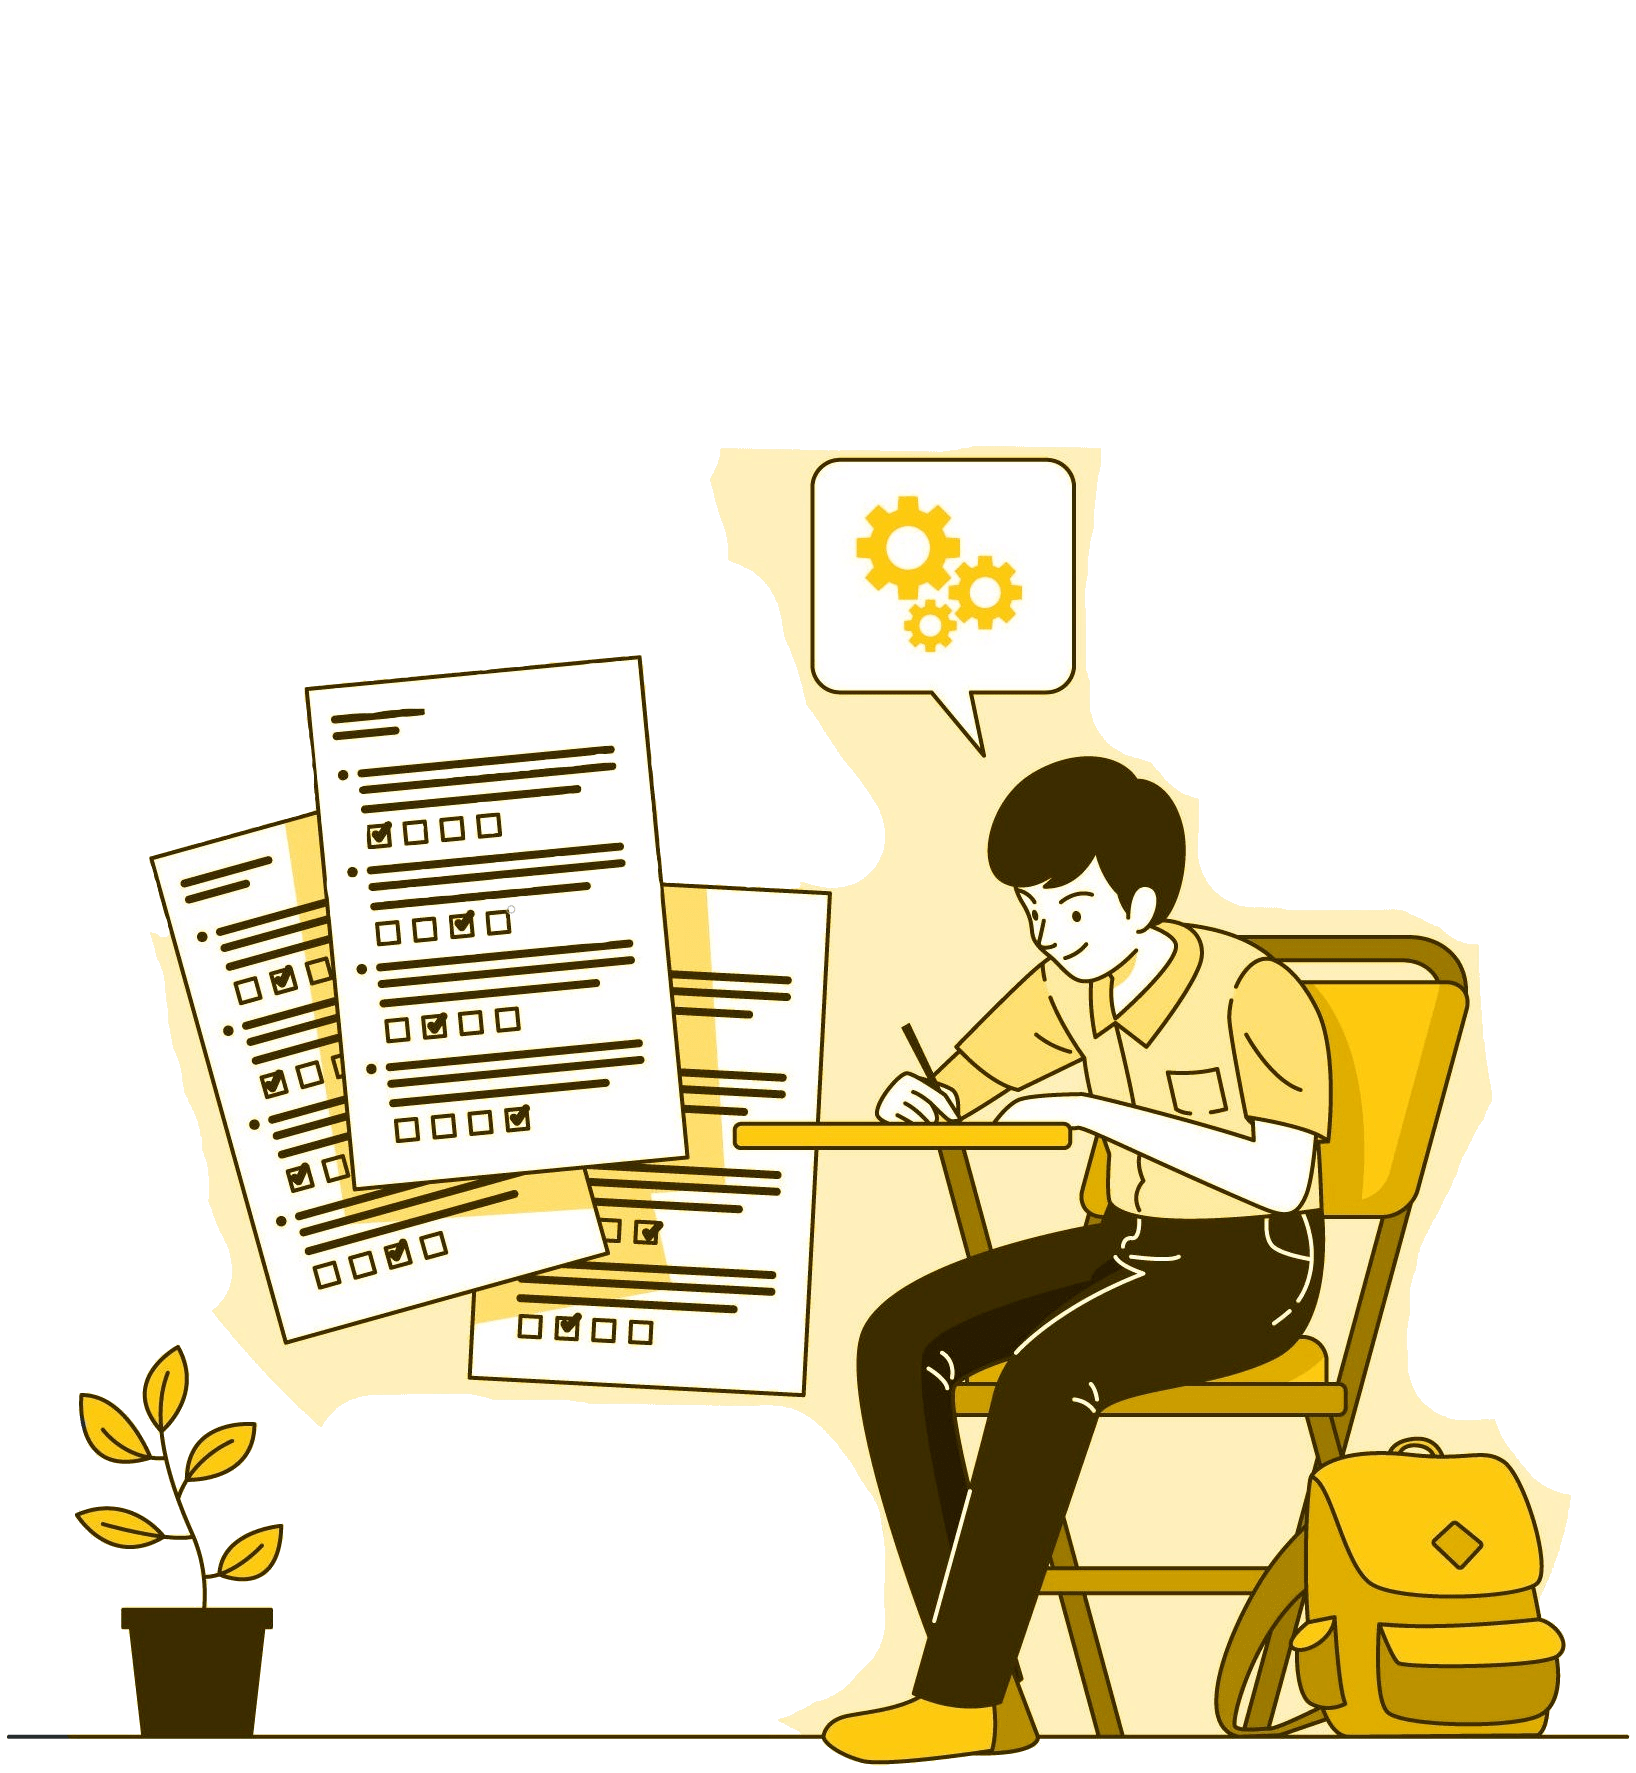
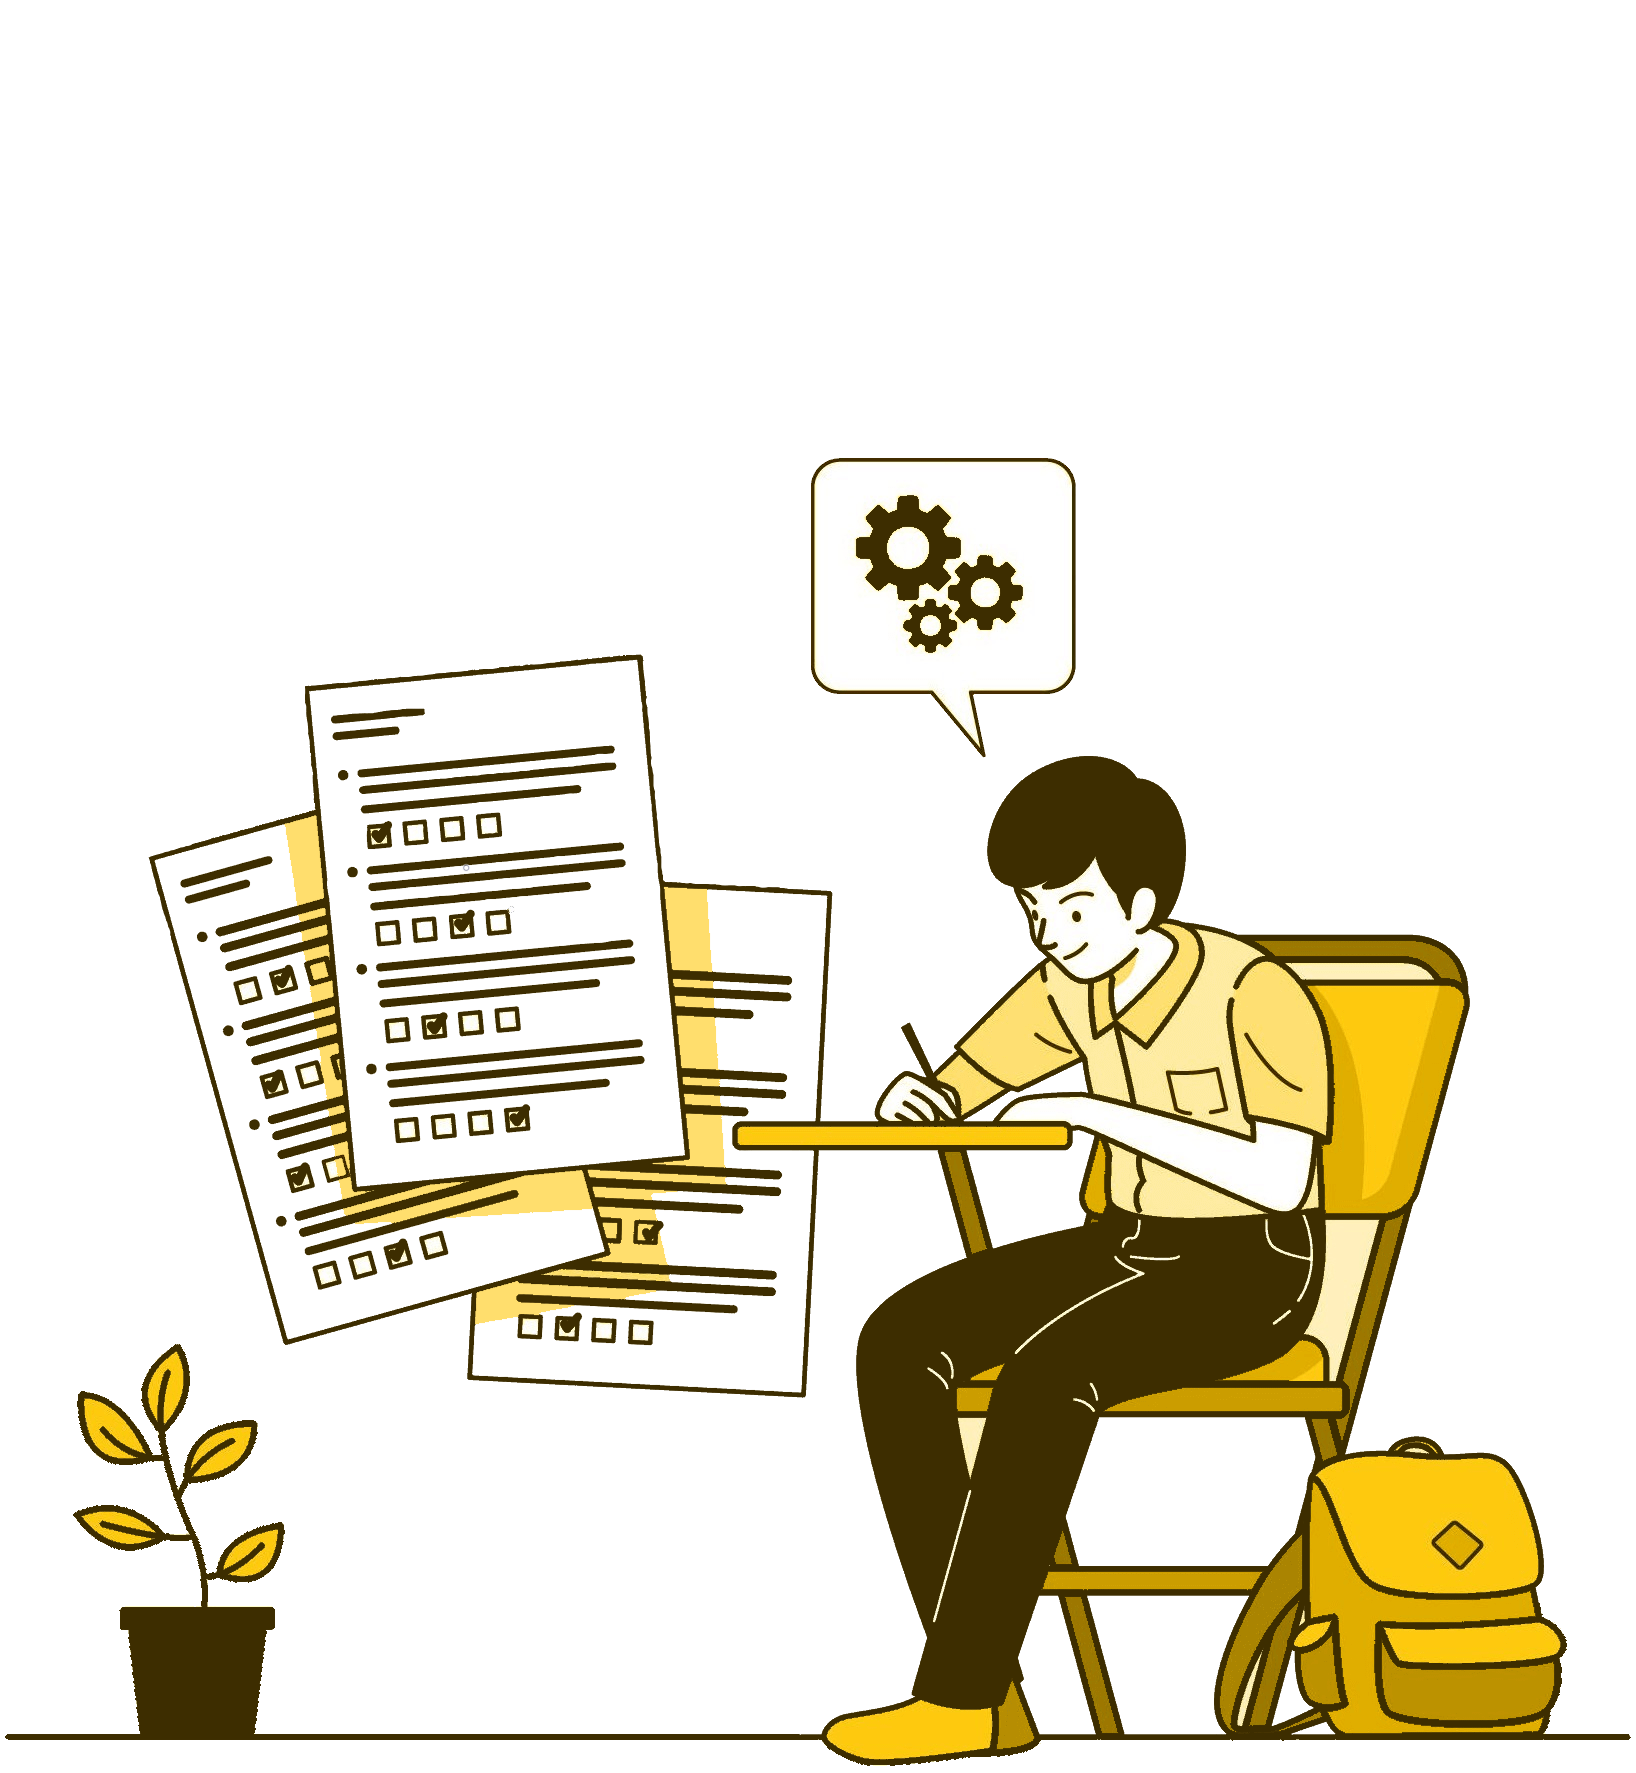
edited img (removed color background)

diff --git a/source/index.html b/source/index.html
@@ -62,7 +62,6 @@
         <picture>
           <source srcset="img/boy.webp" type="img/webp">
           <img class="training-effort__img-main" src="img/extra-imgs/boy_orange_without-background.png" width="600" height="648" alt="Ученик решает тест">
-          <!-- <img class="training-effort__img" src="img/boy.png" width="600" height="648" alt="Ученик решает тест"> -->
         </picture>
         <svg class="training-effort__img-background training-effort__img-background--1" width="200" height="200">
           <use xlink:href="/img/svg/sprite.svg#blob-1"></use>
@@ -73,7 +72,6 @@
         <svg class="training-effort__img-background training-effort__img-background--3" width="200" height="200">
           <use xlink:href="/img/svg/sprite.svg#blob-2"></use>
         </svg>
-        <!-- <img class="training-effort__img2" src="img/extra-imgs/blob-1.svg" width="600" height="648" alt="Ученик решает тест"> -->
         <div class="training-effort__wraper">
           <h2 class="sub-title">Направления:</h2>
           <ul class="training-effort__list list-animation">
